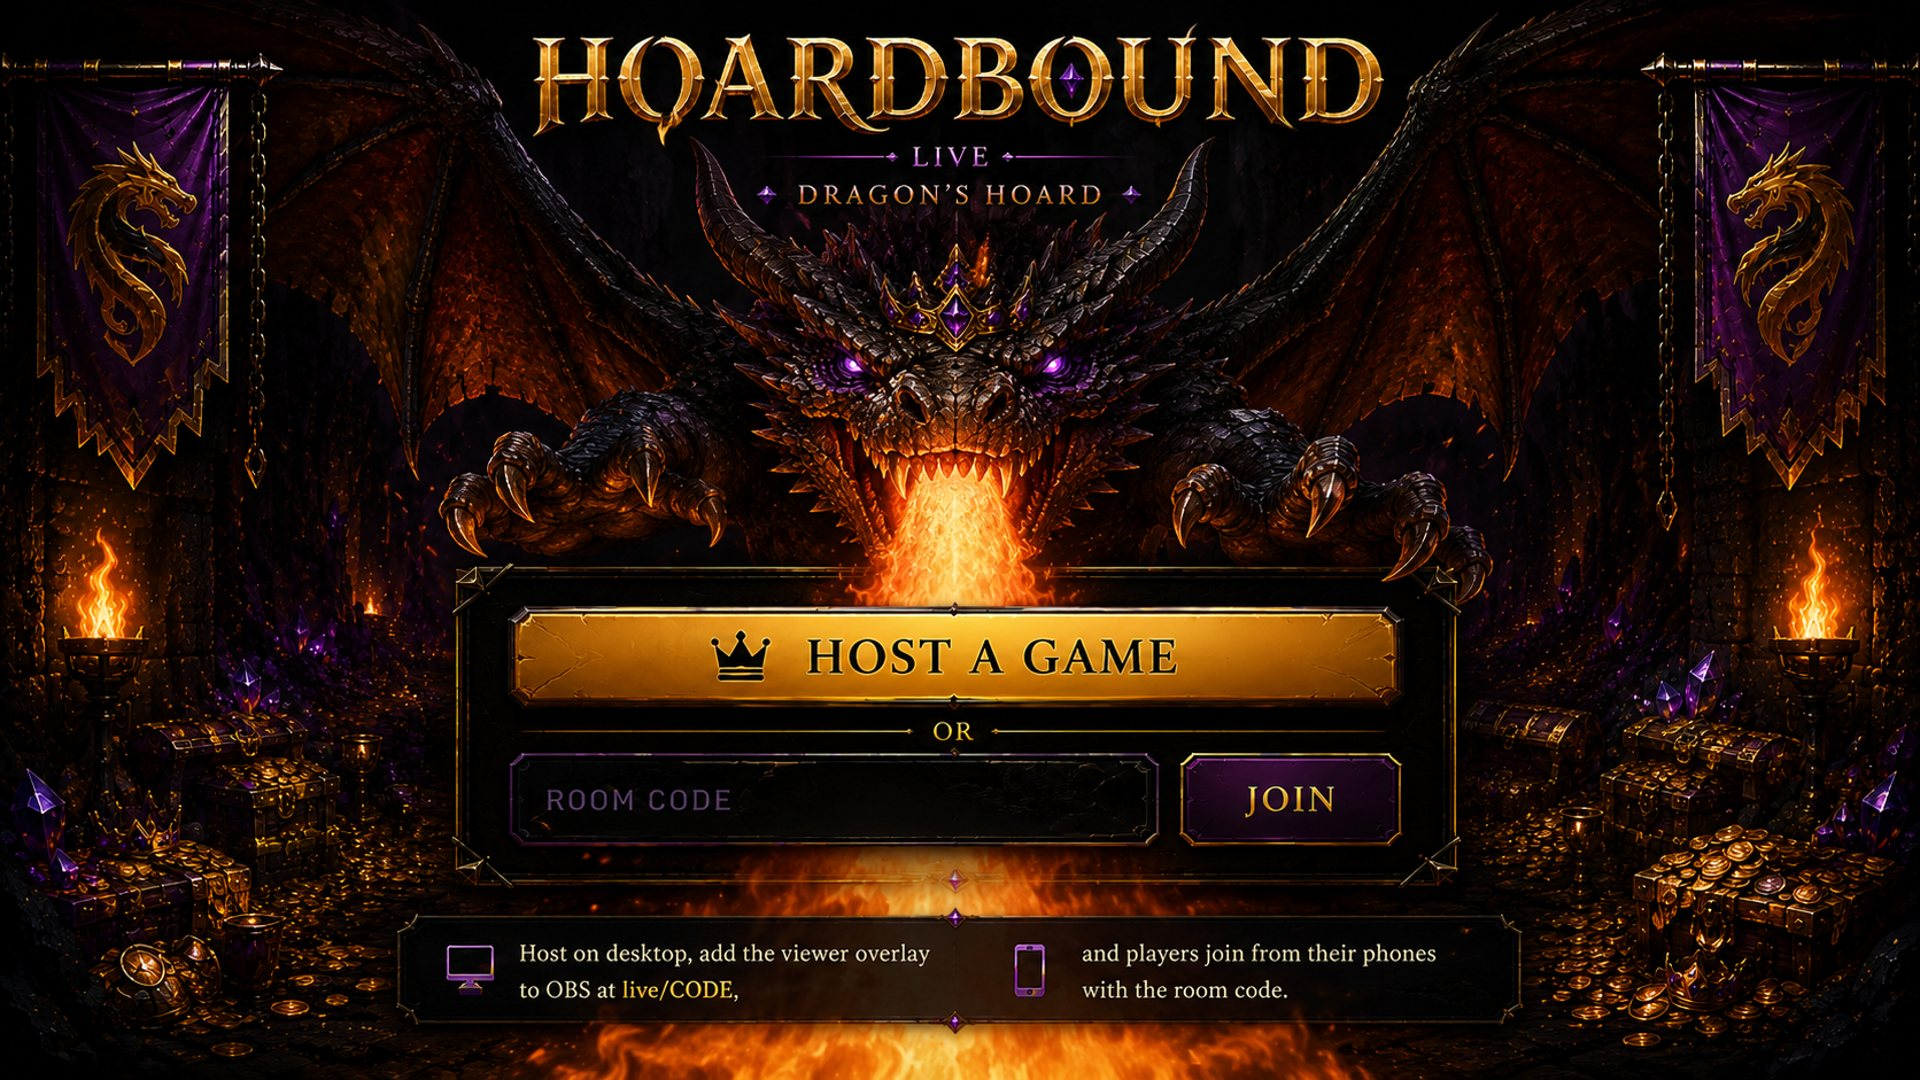
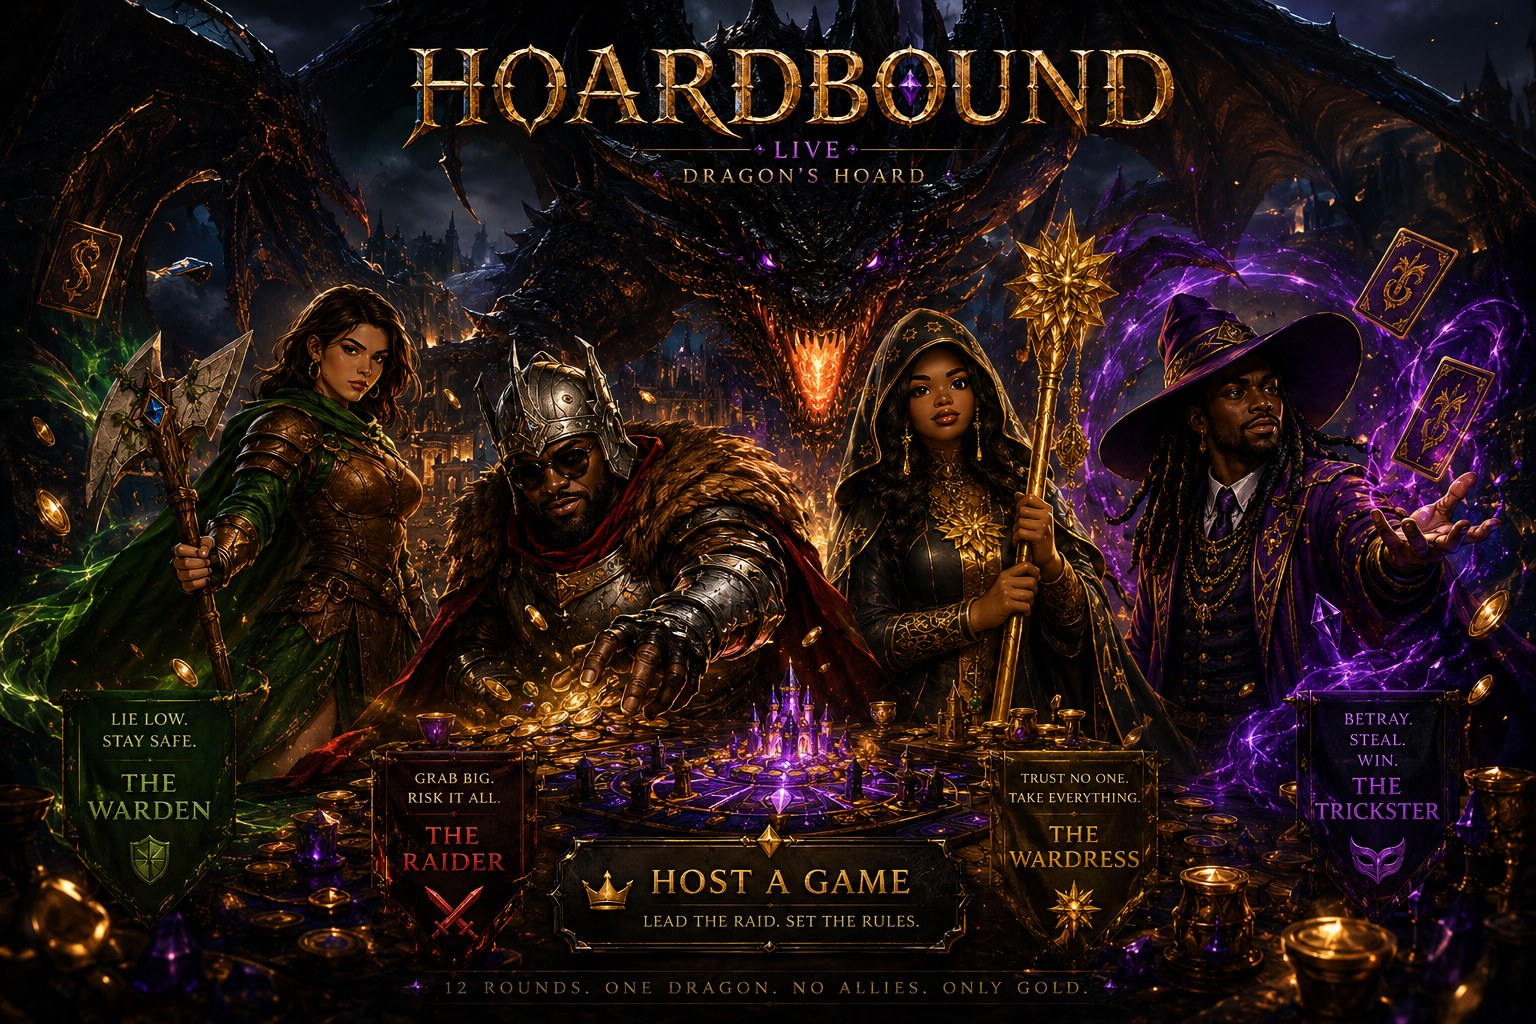
11232323
3344556677888

diff --git a/app/host/page.js b/app/host/page.js
@@ -7,7 +7,7 @@ import {
   startRound, resolveRound, fireDirector, fireGift, resetGame, endGame, removePlayer, subscribeRoom, uuid,
 } from "../../lib/roomApi";
 import { supabase, hasSupabase } from "../../lib/supabaseClient";
-import { ROUNDS, rageTier, fmt, rageStage, GIFT_ORDER, GIFT_META, narrationLine } from "../../lib/game";
+import { ROUNDS, rageTier, fmt, rageStage, GIFT_ORDER, GIFT_META, narrationLine, dragonScorchLine } from "../../lib/game";
 import Chronicle from "../_components/Chronicle";
 import Avatar from "../_components/Avatar";
 
@@ -24,6 +24,8 @@ export default function HostPage() {
   const [players, setPlayers] = useState([]);
   const [events, setEvents] = useState([]);
   const [moveCount, setMoveCount] = useState(0);
+  const [announce, setAnnounce] = useState(null);
+  const announcedRound = useRef(0);
   const [qr, setQr] = useState(null);
   const [busy, setBusy] = useState(false);
   const [err, setErr] = useState("");
@@ -188,7 +190,9 @@ export default function HostPage() {
         lines.push({ text: hasVictims ? "You dared to touch my hoard?! Then BURN!" : "I stir… tread carefully, little thieves.", who: "dragon" });
         lines.push({ text, who: "narrator" });
       } else if (e.kind === "scorch") {
-        lines.push({ text, who: "dragon" });
+        const nm = e.payload && e.payload.name;
+        const amt = e.payload && e.payload.amount;
+        lines.push({ text: dragonScorchLine(nm, amt), who: "dragon" });
       } else {
         lines.push({ text, who: "narrator" });
       }
@@ -219,6 +223,26 @@ export default function HostPage() {
     return () => clearTimeout(safety);
     // eslint-disable-next-line react-hooks/exhaustive-deps
   }, [narration && narration.i]);
+
+  // When every human has submitted their move, the narrator calls it out (once per round).
+  useEffect(() => {
+    if (!room || room.status !== "active") return;
+    const humanCount = players.filter((p) => !p.is_bot).length;
+    if (humanCount > 0 && moveCount >= humanCount && announcedRound.current !== room.round) {
+      announcedRound.current = room.round;
+      const opts = [
+        "Every hunter has locked in their move.",
+        "All moves are cast — the reckoning nears.",
+        "The hunters have chosen. Resolve when you're ready.",
+        "That's everyone in. The fates are set for this round.",
+      ];
+      const line = opts[Math.floor(Math.random() * opts.length)];
+      setAnnounce(line);
+      speak(line, "narrator", () => {});
+      setTimeout(() => setAnnounce(null), 4500);
+    }
+    // eslint-disable-next-line react-hooks/exhaustive-deps
+  }, [room && room.status, room && room.round, moveCount, players.length]);
 
   // Autoplay: keep advancing rounds on a timer until the game ends or the host stops it.
   // The ⏲ timer, when set, decides how long autoplay waits between steps; otherwise use the speed.
@@ -404,6 +428,9 @@ export default function HostPage() {
           </div>
         );
       })()}
+      {announce && (
+        <div className="announce-toast">📜 {announce}</div>
+      )}
       {gift && (
         <div className="gift-toast">
           <span className="gt-emoji">{gift.emoji}</span>

diff --git a/lib/game.js b/lib/game.js
@@ -355,6 +355,21 @@ export function eventText(e) {
 }
 
 // Plain-text dramatic narration for the post-round recap (spoken + shown).
+// A menacing first-person line the dragon roars whenever it scorches a hunter.
+export function dragonScorchLine(name, amount) {
+  const who = name || "thief";
+  const amt = amount ? fmt(amount) : "your gold";
+  return pick([
+    `Foolish ${who}! ${amt} gold — ash in my jaws.`,
+    `You reached too far, ${who}. Burn for it — ${amt} gone!`,
+    `Did you think me asleep, ${who}? ${amt} scorched to nothing!`,
+    `Greedy little ${who}… ${amt}, now only cinders.`,
+    `Mine. All of it, ${who}. ${amt} returns to the flame!`,
+    `You should have stayed in the shadows, ${who}.`,
+    `Tremble, ${who}. ${amt} devoured — and still I hunger.`,
+  ]);
+}
+
 export function narrationLine(e) {
   const p = e.payload || {};
   switch (e.kind) {

diff --git a/app/globals.css b/app/globals.css
@@ -609,3 +609,9 @@ body:has(.host-wrap.cockpit)::before{
   box-shadow:0 20px 60px rgba(0,0,0,.6),0 0 40px rgba(229,98,46,.35)}
 .narr-card.dragon .narr-kicker{color:#ff8a5c}
 .narr-card.dragon .narr-line{color:#ffd9c2}
+
+/* "all hunters moved" announcement */
+.announce-toast{position:fixed;top:16px;left:50%;transform:translateX(-50%);z-index:70;
+  background:linear-gradient(180deg,#150e24,#0c0714);border:1px solid var(--gold);color:var(--bone);
+  padding:12px 22px;border-radius:999px;font-family:'Cinzel',serif;font-size:15px;
+  box-shadow:0 12px 40px rgba(0,0,0,.6),0 0 22px rgba(245,196,81,.25);animation:giftPop .3s ease-out}